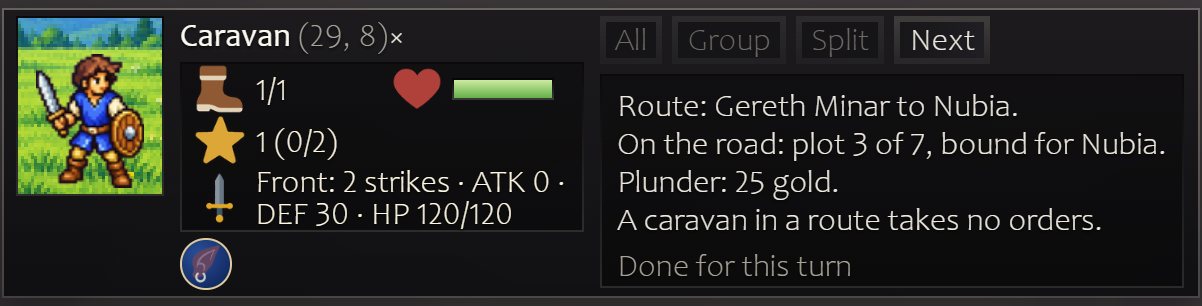
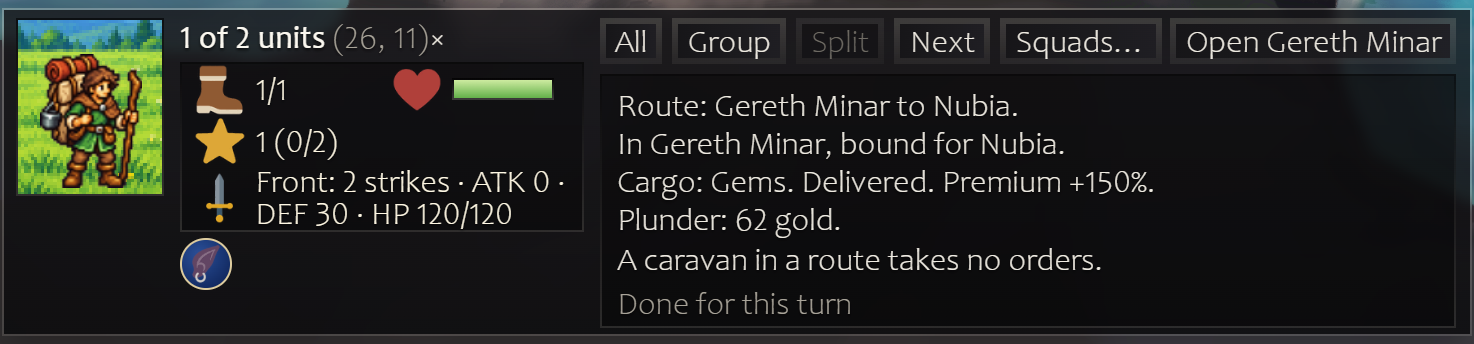
Trade client: cargo selectors, Refit, escorts, the caravan's figures; plunder in the battle plan; shots
The Establish dialog's foreign rows open one cargo selector per caravan (bare option lines, the
only-copy warning, the pay with the chosen cargos computed by route_pay's rule from the halves the
view sends); Refit route opens the same selectors for its route. The Trade screen shows each
caravan's cargo and escorts and what others' routes bring, Dissolve beside the title, the terms
wrapping, no wide modal. Escort of a caravan from the unit panel and the Armies screen (a fleet's
standing order selector, a land army's Escort selector where its Raid line is), with the order's
line and why it waits. A caravan is drawn with the Settler's figure (an alias in the sprite
lookup) and, on water, with the Galley's (the view's art type read by the isometric and HD-2D
figure lookups). The battle plan repeats the plunder. A waiting caravan of a closed route reads
'Route closed.' for its cargo. trade-shots adds the cargo, refit, escort, figure and flat/iso
check shots; docs updated.

Changed region(s): [[0.0, 0.0, 1.0, 1.0]]

diff --git a/crates/ffh-play/assets/app/battle_plan.js b/crates/ffh-play/assets/app/battle_plan.js
@@ -53,6 +53,8 @@ async function plan(ctx) {
   P.fc = pv.forecast ?? null;
   P.errors = pv.errors ?? [];
   P.declare = pv.declare_war ?? null;
+  // Trade (docs/TRADE.md 9): the caravans there, what killing them brings.
+  P.plunder = pv.plunder ?? [];
   // The units the battle calls (docs/ENGAGEMENTS.md, "Summons"): made for it, no fighter here.
   P.summons = P.fc ? (pv.summons ?? []).filter((x) => !x.on_kill) : [];
   render(ctx);
@@ -427,6 +429,7 @@ function forecastPanel(ctx, { mineIn, theirsIn, theirsOut }) {
     const unseen = pv.shore_unseen ? `, ${pv.shore_unseen} unseen` : "";
     body.push(h("div.small.bt-shore", { title: "Each fires one shot before round 1; a shot never takes a unit below 1 HP." }, h("span.dim", "Ships fire from the coast: "), `yours: ${mine.length ? mine.join(", ") : "none"}; theirs: ${theirs.length ? theirs.join(", ") : "none"}${unseen}.`));
   }
+  for (const t of P.plunder ?? []) body.push(h("div.small.bt-plunder", t));
   if (war) body.push(h("div.warn.small", "Attacking declares war."));
   for (const e of P.errors) body.push(h("div.bad.small", e));
   const watch = ctx.prefs.get("watch", "watch");

diff --git a/crates/ffh-play/src/view/trade.rs b/crates/ffh-play/src/view/trade.rs
@@ -109,10 +109,22 @@ fn bonus_name(g: &Game, b: BonusType) -> String {
     g.d.text.name(&g.d.bonuses[b].base.description).to_string()
 }
 
+/// Slot `slot` of route `r`'s cargo as the rules read it (`route_slot_cargo`), except that a
+/// caravan waiting in the origin of a closed route (not killed) reads `Route closed.`: the rules
+/// name any absent caravan `Caravan lost.` first.
+fn slot_cargo(g: &Game, r: RouteId, slot: usize) -> ffh_core::trade::CargoView {
+    let mut c = g.route_slot_cargo(r, slot);
+    let s = &g.routes[r].slots[slot];
+    if c.state == CargoState::CaravanLost && !g.routes[r].is_open() && s.reform_turns == 0 {
+        c.state = CargoState::RouteClosed;
+    }
+    c
+}
+
 /// Caravan `slot` of route `r`'s cargo line (docs/TRADE.md, 9): `Cargo: Gems. Delivered. Premium
 /// +150%.` / `Cargo: Gems. Caravan lost.` / `Cargo: none.`
 pub fn cargo_line(g: &Game, r: RouteId, slot: usize) -> String {
-    let c = g.route_slot_cargo(r, slot);
+    let c = slot_cargo(g, r, slot);
     match c.cargo {
         None => "Cargo: none.".to_string(),
         Some(b) if c.state == CargoState::Delivering && c.premium_percent > 0 => format!("Cargo: {}. {} Premium +{}%.", bonus_name(g, b), c.state.text(), c.premium_percent),
@@ -325,7 +337,7 @@ pub fn route_json(v: &Viewer, r: RouteId) -> Json {
                 // Cargo (docs/TRADE.md, section 5) and the escorts (4.4).
                 "cargo" => s.cargo.map(|b| Json::idx(b)),
                 "cargo_text" => cargo_line(g, r, i),
-                "cargo_state" => cargo_state_key(g.route_slot_cargo(r, i).state),
+                "cargo_state" => cargo_state_key(slot_cargo(g, r, i).state),
                 "escorts" => escorts_json(g, r, i),
             }
         })

diff --git a/crates/ffh-play/tests/engagements.rs b/crates/ffh-play/tests/engagements.rs
@@ -70,7 +70,7 @@ const SUMMARY: &[&str] = &["id", "turn", "x", "y", "from", "place", "city", "vie
 const SUMMARY_SIDE: &[&str] = &["player", "civ", "label", "slots", "lanes", "used", "committed", "sat_out", "lost", "lost_types", "escaped", "standing", "shore"];
 const PLAN: &[&str] = &[
     "plot", "from", "ground", "params", "slots", "lanes", "sides", "fighters", "formation", "auto_formation", "squads", "squad", "def_squad", "reserve", "def_formation", "def_reserve", "summons",
-    "starving", "shore", "shore_unseen", "forecast", "declare_war", "errors",
+    "starving", "shore", "shore_unseen", "forecast", "declare_war", "plunder", "errors",
 ];
 const FORECAST: &[&str] = &["runs", "line_wiped_permille", "plot_falls_permille", "attackers_wiped_permille", "attackers_win_permille", "lost_x100", "escaped_x100", "per"];
 const HIT: &[&str] = &["target", "dmg", "expected", "r", "crit", "miss", "killed", "withdrew", "splash"];

diff --git a/crates/ffh-play/tests/trade.rs b/crates/ffh-play/tests/trade.rs
@@ -258,6 +258,8 @@ fn a_closed_route_names_its_reason_and_draws_no_line() {
     let car = arr(&f, "caravans");
     assert_eq!(text(&car[0], "text"), format!("Waits in {}: the route is closed.", view::city_name(&s.g, port)));
     assert_eq!(text(&car[1], "state"), "lost");
+    assert_eq!(text(&car[0], "cargo_text"), "Cargo: Gems. Route closed.");
+    assert_eq!(text(&car[1], "cargo_text"), "Cargo: Silk. Caravan lost.");
     let t = trade_view(&s);
     assert!(arr(&t, "lines").iter().all(|l| l.get("route") != Some(&Json::from(foreign))));
     let v = Viewer::new(&s.g, s.human, false);

diff --git a/crates/ffh-play/src/stage/trade.rs b/crates/ffh-play/src/stage/trade.rs
@@ -213,6 +213,10 @@ fn trade_seed(dir: &Path, kind: &str, seed: u32) -> Result<Option<Json>, String>
         g.player_update_routes(h);
     }
     g.player_update_routes(rival);
+    // A Scout of the human's on the land bridge over the strait: the caravans at sea there are in
+    // sight (the shots draw one as a ship).
+    let (bx, by) = xy(g, at(9, -4));
+    g.player_init_unit(h, d.t::<UnitType>("UNIT_SCOUT"), bx, by, None, None);
     let ready = make(g, h, capital);
     let mut out = crate::jobj! {
         "stage" => kind,

diff --git a/crates/ffh-play/src/view/battles.rs b/crates/ffh-play/src/view/battles.rs
@@ -1033,6 +1033,8 @@ pub fn engage_preview(v: &Viewer, by: &EngageBy, to: (i32, i32), squad: Option<S
         "shore_unseen" => pv.shore.iter().filter(|s| !v.unit_visible(s.unit)).count() as i64,
         "forecast" => forecast,
         "declare_war" => rival,
+        // Trade (docs/TRADE.md, section 9): what killing the caravans there would bring.
+        "plunder" => crate::view::trade::attack_plunder(v, dest),
         "errors" => Json::Arr(refused.into_iter().map(Json::from).collect()),
     })
 }

diff --git a/docs/HUMAN.md b/docs/HUMAN.md
@@ -1275,8 +1275,30 @@ texture). The city screen's **Routes** section lists the routes from the city an
 pay to that city (`To Nubia (Calabim): 2.5 a turn.`, `From Thariss: 1.6 a turn.`) and `This city: 1
 of 1.`. The help of the techs, civics, buildings and votes with a route key says it bare (`+1
 route.`, `+1 route from a coastal city.`, `This city can be the origin of 1 more route.`, `+50% pay
-of the route from this city.`), the word carrying the Route keyword. Staged saves: `trade-ready`,
-`trade-routes`, `trade-closed`, `trade-raid`.
+of the route from this city.`), the word carrying the Route keyword. **Cargo** (docs/TRADE.md 5):
+in the Establish dialog a foreign row opens, under it, one selector per caravan: `No cargo` or a
+resource, each option's line bare (`Fur (luxury): Calabim has none. +150% on this caravan.` /
+`Gems (luxury): Calabim has it. +50% on this caravan.`), an only copy warned under it (`Your only
+copy: your cities lose Dye.`), and the pay with the chosen cargos (each caravan's half x (100 +
+its premium) / 100, as the rules' `route_pay`); preselected: the spare luxuries the recipient
+lacks, the highest premium first, never an only copy, mana or a strategic resource; a domestic row
+sends at once. A Caravan in the origin of a route of yours offers **Refit route** (`refit_route
+{unit, route, cargo}`): the same selectors, starting from the route's cargos, and `The route keeps
+its growth. This Caravan is used up.` Each caravan's cargo (`Cargo: Gems. Delivered. Premium
++150%.` / `Cargo: Silk. Caravan lost.` / `Cargo: none.`) is on the Trade screen and its unit
+panel; a caravan of another player you see shows its cargo in the tooltip (`Cargo: Silk.`); the
+routes of others into your cities say what they bring (`Brings: Silk.`). **Escorts** (docs/TRADE.md
+4.4): an army's or a fleet's unit panel offers `Escort Caravan: Thariss to Gereth Minar (1)` for
+each caravan it could escort (and `Stop escorting`), with `A caravan standing with its escort moves
+only as far as the escort can.`; the Armies screen has the same choice: a fleet's Standing order
+selector, a land army's Escort selector where its Raid line is; the order's line reads `Escorting
+Caravan: Thariss to Gereth Minar (1).` and, while it waits, why (`Waits: caravan lost.` / `route
+closed` / `the caravan is at sea` / `the caravan is on land`); the Trade screen lists each
+caravan's escorts. The command is `army_station` with `{"escort_caravan": route, "slot": 0 | 1}`.
+A caravan is drawn with the Settler's figure; on water with the Galley's (the view's `art` type,
+which the isometric and HD-2D figure lookups read before `type`). The battle plan repeats the
+plunder line. Staged saves: `trade-ready`, `trade-routes` (with an escort, cargos, a Caravan in
+the port for Refit), `trade-closed`, `trade-raid`.
 
 ## Commands
 
@@ -1463,12 +1485,13 @@ tactic it has cancels a pending change); refused for another player's army or ci
 an unknown tactic; refused for a fleet), `army_station {army, station}` (a fleet's standing
 order, docs/NAVAL.md 7.2: `station` null (none), `{"patrol": sea}` (a sea index; refused out of your
 range or for a fleet with no warship), `{"escort": army}` (an army or fleet of yours) or
-`{"escort_group": group}`; refused for an army; and a land army's Raid, docs/RAIDS.md:
+`{"escort_group": group}`, `{"escort_caravan": route, "slot": 0 | 1}` (a caravan of yours, docs/TRADE.md 4.4: a fleet or a land army); refused for an army otherwise; and a land army's Raid, docs/RAIDS.md:
 `{"raid": city}`, the rules' `army_raid_refusal` as the reason, "The countryside is stripped.";
 null ends it), `establish_route {unit, city, cargo}` (Trade, docs/TRADE.md 3.2: a Caravan of yours
-in a city that can be an origin; `cargo` absent, null or `[null, null]`: cargo is not built, any
-resource is refused `Cargo is not built yet.`; the rules' reason otherwise, `RouteRefusal::text`),
-`dissolve_route {route}` (a route of yours; another's: `not_owner`), `city_sally {city, posture}` (a city's sally posture, docs/RAIDS.md section 4:
+in a city that can be an origin; `cargo` absent or null: none, else `[bonus | null, bonus | null]`
+by name or index; the rules' reason otherwise, `RouteRefusal::text`),
+`dissolve_route {route}` (a route of yours; another's: `not_owner`), `refit_route {unit, route,
+cargo}` (a Caravan of yours in no route, in the route's origin; the rules' `unit_refit_refusal`), `city_sally {city, posture}` (a city's sally posture, docs/RAIDS.md section 4:
 `posture` `Never`, `Favoured` or `Always`, by name, any case; another player's city: `not_owner`;
 `invalid` for another name), `recruit_dest
 {city, index, dest}` (this game's armies: `dest` is `{"garrison": city}`, `{"army": id}` or null
@@ -1655,7 +1678,7 @@ source); and each unit's `army`, `garrison`, `army_unit` and `march` (null, or a
 | `path {units,x,y}` | the path preview: nodes with the turn of arrival and moves left, total turns, a war it would declare, whether it ends in an attack; `supply` (docs/SUPPLY.md): with the units of one army of yours selected and a plot you have revealed, whether the army would be supplied there, `{ok, cost, budget, sea_port}` (`cost` null without a line; `sea_port`: at sea, the port it would be in range of, else null; the rules' `plot_supply_line_known` with your team as viewer: what you see, not the truth), else null; `sea` (docs/NAVAL.md section 10), null when the path neither goes in boats nor out of range: `boats_from` (the first node index where a selected land unit would be in boats: water where no ship of its team has room for it; 0 when it is in boats now), `boats_moves` (water plots a turn), `boats_turns` (the turns from the first water node's turn of arrival to the last's), `out_from` (the first revealed water node out of your range for a selection the range rule applies to there), `attrition`, `strength` and `lines` (the preview's words; phase 2 adds the seas entered where an enemy you see patrols, and for an attack on a coastal city its harbour; `sea` is then not null); `supply.sea_why` (no line: why a supply ship of yours there is no source) |
 | `sea {id, units}` | a named sea's panel (docs/NAVAL.md 10; a sea you have revealed a plot of, else `gone`): `name`, `x`, `y`, `plots_text`, `state`, `badge`, `control`, `ours`, `theirs`, `hold`, `sides` (`{label, own, strength, ships, note, party}`), `now`, `if_they` / `if_you` (`{title, lines}` or null), `send` (with warships of yours among `units`: `{label, here, turns, x, y, result, units, enabled, why}`; else null) |
 | `place_menu {spell, x, y}` | a placed world spell's menu on a plot (`view/place.rs`; refused for a plot that is not one of its targets now): `title`, `x`, `y`, `where`, `rows` (one per mana type: `target`, `bonus`, `name`, `owned` ("You own: N."), `passive` (lines; empty: none), `promotions` (tier I to III: `promotion`, `type`, `name`, `tier`, `needs`, `free`, `spells` `[{spell, name, help}]`)) |
-| `route_offers {unit}` | Trade's Establish dialog of a Caravan of yours (docs/TRADE.md 9): `{unit, origin, enabled, why, limits, offers: [{city, name, owner, civ, foreign, length, pay_x100, pay, dest_pay_x100, seas: [{id, name, state, text}], text, segments, cargo, cmd}], empty}`, by pay; a unit that is not a Caravan is `invalid`. The view's `trade` (`{limits, routes, into, lines}`), the units' `caravan` and the city query's `routes` carry the rest. |
+| `route_offers {unit}` | Trade's Establish dialog of a Caravan of yours (docs/TRADE.md 9): `{unit, origin, enabled, why, limits, offers: [{city, name, owner, civ, foreign, length, pay_x100, pay, dest_pay_x100, seas: [{id, name, state, text}], text, segments, cargo: {options: [{bonus, name, class, premium, only_copy, text, warn}], preselect, halves} | null, cmd}], empty, refits: [{route, title, line, why, cargo, cmd}]}`, by pay; a unit that is not a Caravan is `invalid`. The view's `trade` (`{limits, routes, into, lines}`), the units' `caravan` and the city query's `routes` carry the rest. |
 | `seas` | the Seas screen: `{seas: [{id, name, x, y, state, badge, control, ours, theirs, enemy, ports, lanes, lanes_cut}]}` |
 | `combat {units,x,y}` | the attack preview: attacker, defender, odds of winning and of retreating (per mille), strengths, the modifiers of both sides. Under engagement combat, for land units attacking a land plot that holds a defender: `engagement: true`, `defenders` (their number), `declare_war_team` and `on_arrival`. An attack the selection can launch now (the plot is next to it and some unit on its plot can attack the plot now): `on_arrival: false`, `valid: true`, `pool` the units on its plot that can (other armies and the garrison there included). Otherwise (a go-to that ends in an attack, units that have used their moves or their attack): `on_arrival: true`, the duel's `valid` and odds kept, `pool` the selected units that could fight there once they can attack it. The duel's odds and strengths of the strongest pair stay beside them (the forecast of a battle is `engage_preview`'s). Ships, air units and the option off: the duel's preview. The sea (docs/NAVAL.md): each side's details carry `sea_wear` (a warship's wear, negative percent), and `defender_in_boats` with `embarked_strength` says the defender fights in boats |
 | `engage_preview {army \| units \| from, to, squad?}` | engagement combat: the plan of an attack (the battle screens' plan) by `squad` (else the strongest squad that can attack; `squads`: the attacking squads that can, `{squad, number, body, formation}`; `squad`: the index of the one the plan fights with; `def_squad`: `{squad, number}`, the defenders' squad as the real fight picks it), in the battle log's shapes (`assets/app/battle_log.js`'s header lists what the screens read): `plot` and `from`, the `ground` and its rules, `params` (the rule values the screens word), both sides' `slots` and why and their `lanes`, `sides`, `fighters` (the pool, then the defenders you see, each in its cell or `lane` null: its A and Dv, HP, speed, actions per row, spell, dodge, crit bonus, size and specials), `formation` (the attacking squad in its cells), `auto_formation` (the strongest squad's), `reserve` (the pool's units not in it), `def_formation` and `def_reserve` (the defending squad in its cells, as the real fight picks it, and the rest on the plot), `starving` (`[{b, pct}]`: the fighters you see of starving armies and the percent change of the damage they deal), `forecast` (`runs` battles of the real resolver on a private RNG seeded from the plan, never the game's: `lost_x100` and `escaped_x100` per side, `line_wiped_permille`, `plot_falls_permille`, `attackers_wiped_permille`, `attackers_win_permille` (the defenders lose the battle), and `per` fighter its `fall_pct` and `escape_pct`), `declare_war` (the team the attack declares war on), `errors`. A squad that cannot attack there gets the plan of the strongest squad, `forecast` null and why in `errors`; a plot you do not see, one not next to the attackers, or an attack the rules refuse has no plan: the reply is `errors` and `declare_war` alone. Refused without the option |

diff --git a/docs/TRADE.md b/docs/TRADE.md
@@ -1,8 +1,8 @@
 # Trade: routes, caravans, cargo
 
 **Status: rules built (2026-11-21): sections 3, 4.1-4.3, 6, 7 ("As built", section 14), cargo,
-section 5 (section 15) and escorts, 4.4 (section 16). The client (section 9) is built without
-cargo and escorts (docs/HUMAN.md, "Trade"). Not built: the AI (section 8).** This game's own rules, replacing the trade routes
+section 5 (section 15) and escorts, 4.4 (section 16). The client (section 9) is built,
+cargo, refit and escorts included (docs/HUMAN.md, "Trade"). Not built: the AI (section 8).** This game's own rules, replacing the trade routes
 inherited from Civ4 (each city's slots filled by the rules with the best-paying partner cities:
 `city_update_trade_routes`). This file is the spec for the implementation, as docs/SUPPLY.md is for
 supply lines and docs/NAVAL.md for the sea. Marked **(default)**: a value or rule chosen for a
@@ -314,13 +314,17 @@ the units' `caravan`, the unit panel's lines, the city query's `routes`, the att
 `establish_route` and `dissolve_route` (`command.rs`), the stages `trade-ready|trade-routes|
 trade-closed|trade-raid` (`src/stage/trade.rs`), `tests/trade.rs`; `assets/app/trade.js` (the layer,
 the dialog, the screen) and `trade_view.js` (pure, `test/trade.test.mjs`); the keyword Route
-(`keywords.jsonc`). Not built: the cargo selector and cargo lines (their places are marked
-`cargo` in the JSON and in trade.js), a caravan on water drawn as a ship (the client's sprite lookup is
-by unit type in three renderers, the HD-2D one in its instance build: left for a renderer change),
-the plunder in the battle plan (the attack preview's tooltip has it). At peace a caravan cannot be
-attacked: a move onto its plot is a move, not an attack (the rules' at-peace stacking), so no
-"declares war" notice comes up; declaring war (diplomacy) closes the route and seizes its caravans on
-your land.
+(`keywords.jsonc`). Then (the same day) cargo, refit and escorts: the offers' `cargo` selectors
+and `refits`, the command `refit_route`, each caravan's cargo line and escorts, others' routes'
+`Brings:`, `army_station` with `escort_caravan` for a land army or a fleet, the Escort actions and
+the Armies screen's selectors, the escort's line and why it waits (derived in the view from the
+route's slot), the plunder in the battle plan, a unit's `art` type (a caravan on water drawn with
+the Galley's figure, on land with the Settler's: an alias in the sprite lookup). The pay with the
+chosen cargos is computed in the client (trade_view.js `cargoPay`) from the halves the view sends,
+by the rule of `route_pay`. An attack on a plot holding another
+player's caravan shows the plunder in the attack preview and the battle plan, and `Attacking
+declares war` where it would (the client's notice); declaring war closes the foreign routes between
+the two and seizes the caravans on the declarer's land.
 
 ## 10. Measures
 
